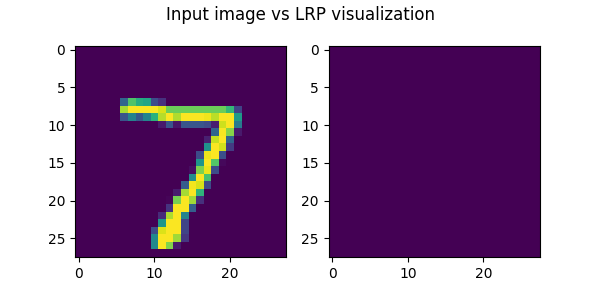
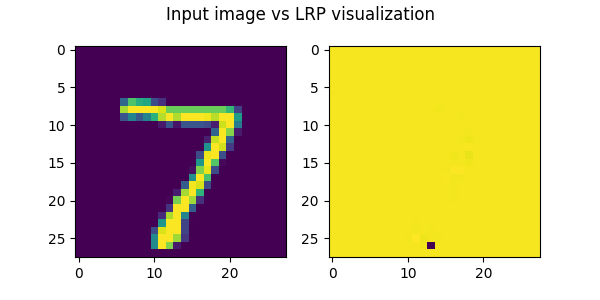
Completed LRP-0, incorrect results after normalizing. Needs fixing.

Changed region(s): [[0.54, 0.15, 0.9, 0.87]]

diff --git a/src/lrp.py b/src/lrp.py
@@ -42,9 +42,11 @@ class LRP:
         # Compute Hidden Relevences
 
         # First get activations at hidden layer
-        input_layer_out, activation_out, output_out = self.model.forward_save_intermediate(img.reshape(-1, 28*28).to(self.device))
+        flattened_image_device = np.squeeze(img.reshape(-1, 28*28)).to(self.device)
+        input_layer_out, activation_out, output_out = self.model.forward_save_intermediate(flattened_image_device)
         activation_out = np.squeeze(activation_out)
-        print("Activation out: ", activation_out.shape)
+        input_layer_out = np.squeeze(input_layer_out)
+        print("Activation out: ", activation_out.shape, ", Input out: ", input_layer_out.shape)
 
         # For all nodes in hidden layer, compute relevance (ISSUE EXISTS IN THIS CODE)
         for i in range(hidden_size):
@@ -56,15 +58,27 @@ class LRP:
                 term_rel = activation_out[i]*self.model.state_dict()["output_layer.weight"][j][i] # + self.model.state_dict()["output_layer.bias"][j]
 
             total_rel = term_rel / denominator
-            print("Total rel: ", total_rel)
             hidden_rel[i] = total_rel
 
         # Compute Input Relevences
+        # For all nodes in hidden layer, compute relevance (ISSUE EXISTS IN THIS CODE)
+        for i in range(input_size):
+            total_rel = 0
+            denominator = 0
+            for j in range(hidden_size):
+                denominator += flattened_image_device[i]*self.model.state_dict()["input_layer.weight"][j][i] # + self.model.state_dict()["output_layer.bias"][j]
+            for j in range(hidden_size):
+                term_rel = flattened_image_device[i]*self.model.state_dict()["input_layer.weight"][j][i] # + self.model.state_dict()["output_layer.bias"][j]
 
+            
+            total_rel = term_rel / denominator if denominator != 0 else 0
+            input_rel[i] = total_rel
 
         print("\nSum input: ", np.sum(input_rel), ". Sum hidden: ", np.sum(hidden_rel), ", Sum output: ", np.sum(output_rel), "\n")
-
+        print("min: ", np.min(input_rel), ", max: ", np.max(input_rel))
+        input_rel = (255*(input_rel - np.min(input_rel))/np.ptp(input_rel)).astype(int)
+        print("After normalizing to (0,255), min: ", np.min(input_rel), ", max: ", np.max(input_rel))
         # Assert relevance conservation properties
-        assert np.sum(input_rel) == np.sum(hidden_rel) and np.sum(hidden_rel) ==  np.sum(output_rel)
+        # assert np.sum(input_rel) == np.sum(hidden_rel) and np.sum(hidden_rel) ==  np.sum(output_rel)
 
-        return np.zeros((28,28))
+        return input_rel.reshape((28,28))
